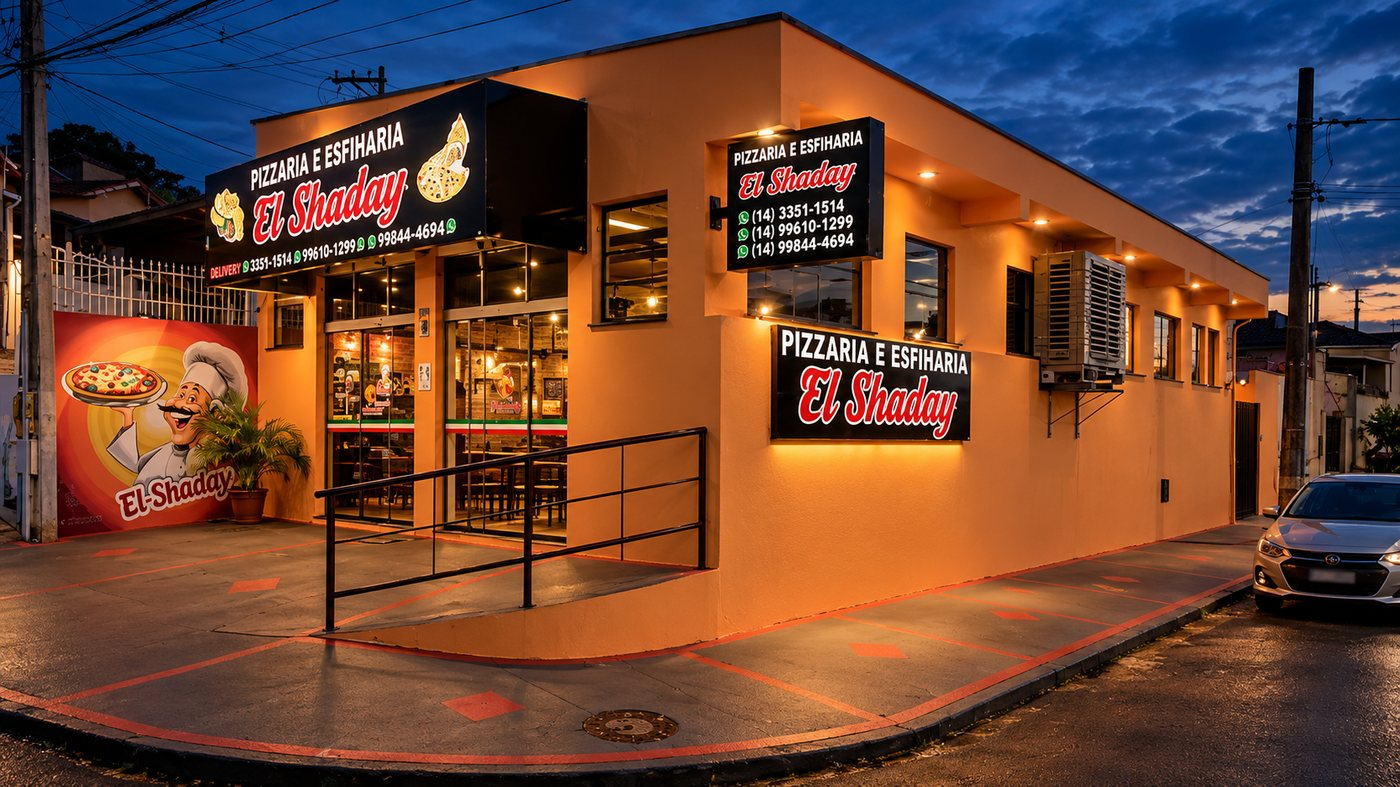
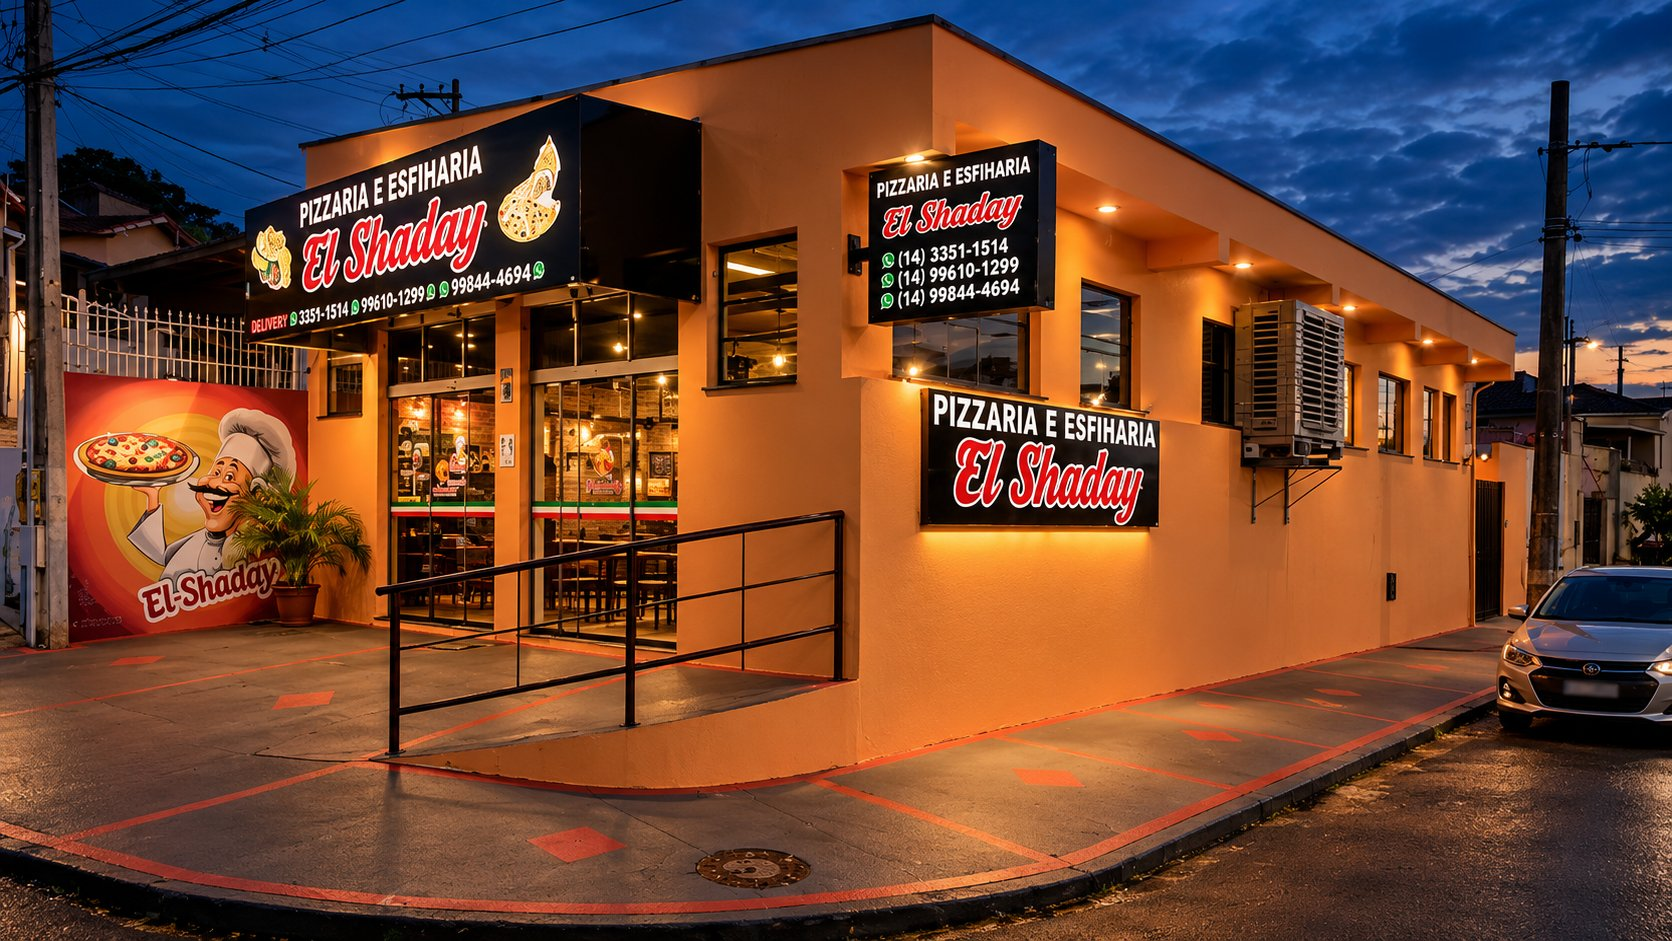
Sobre nós: foto da fachada grande à direita e deitada no celular
Claude-Session: https://claude.ai/code/session_014NesPXzGjX3fs2kZKwi3Gx

diff --git a/index.html b/index.html
@@ -94,10 +94,10 @@ nav a:hover,nav a.on{color:var(--laranja);border-color:var(--laranja)}
 
 /* sobre nós */
 .sobre{background:url(img/fundo.jpg?v=4) center/100% 100% no-repeat #f4ede2;padding:56px 0 60px}
-.sobre-in{display:grid;grid-template-columns:1.1fr 1fr;gap:48px;align-items:center}
-.sobre-foto{margin:0;position:relative}
-.sobre-foto img{width:100%;height:auto;aspect-ratio:16/10;object-fit:cover;display:block;border-radius:10px;box-shadow:0 14px 34px rgba(60,35,15,.28);background:#1c110a}
-.sobre-foto::before{content:"";position:absolute;inset:14px -14px -14px 14px;border:2px solid var(--laranja);border-radius:10px;z-index:-1;opacity:.55}
+.sobre-in{display:grid;grid-template-columns:1fr 1fr;gap:56px;align-items:center}
+.sobre-foto{margin:0;order:2}
+.sobre-foto img{width:100%;height:auto;aspect-ratio:10/11;object-fit:cover;object-position:25% center;display:block;border-radius:22px;box-shadow:0 16px 38px rgba(60,35,15,.3);background:#1c110a}
+.sobre-txt{order:1}
 .sobre-txt .titulo h2{font-size:54px}
 .sobre-txt p{margin-top:16px;font-size:15px;line-height:1.75;color:var(--suave);max-width:520px}
 .sobre-dest{display:flex;flex-wrap:wrap;gap:10px;margin:22px 0 4px}
@@ -108,8 +108,10 @@ nav a:hover,nav a.on{color:var(--laranja);border-color:var(--laranja)}
 .sobre-txt .btn-line:hover{background:rgba(242,106,27,.08)}
 @media (max-width:900px){
   .sobre{padding:40px 0 44px}
-  .sobre-in{grid-template-columns:1fr;gap:34px}
-  .sobre-foto::before{inset:10px -8px -10px 8px}
+  .sobre-in{grid-template-columns:1fr;gap:30px}
+  .sobre-foto{order:0}
+  .sobre-foto img{aspect-ratio:16/10;object-position:center;border-radius:16px}
+  .sobre-txt{order:0}
   .sobre-txt .titulo h2{font-size:42px}
   .sobre-txt p{font-size:14px}
 }
@@ -518,7 +520,7 @@ footer{background:var(--carvao);color:#fff;padding:26px 0 24px}
 <section class="sobre" id="sobre">
   <div class="wrap sobre-in">
     <figure class="sobre-foto">
-      <img src="img/fachada.jpg?v=1" alt="Fachada da El Shaday Pizzaria e Esfiharia à noite, com letreiros iluminados" width="1400" height="788" loading="lazy">
+      <img src="img/fachada.jpg?v=2" alt="Fachada da El Shaday Pizzaria e Esfiharia à noite, com letreiros iluminados" width="1672" height="941" loading="lazy">
     </figure>
     <div class="sobre-txt">
       <div class="titulo"><small>Conheça a El Shaday</small><h2>Sobre nós</h2></div>
